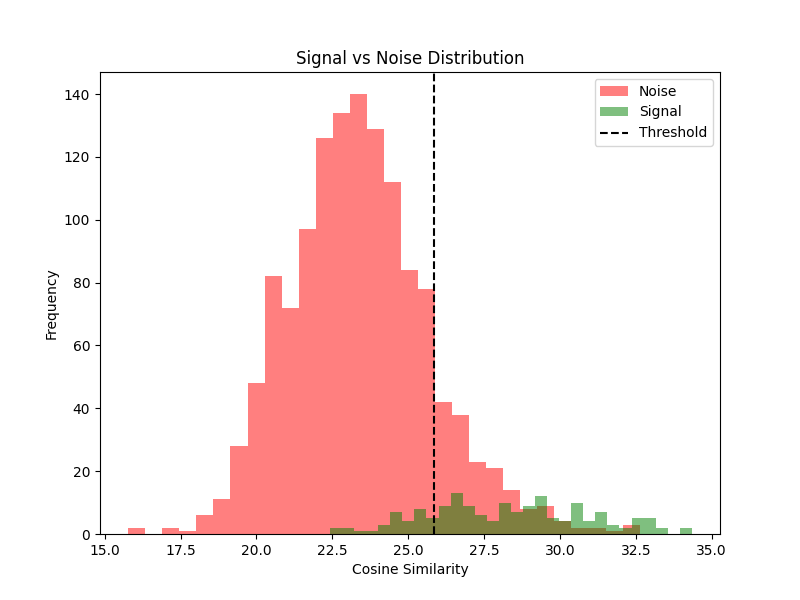
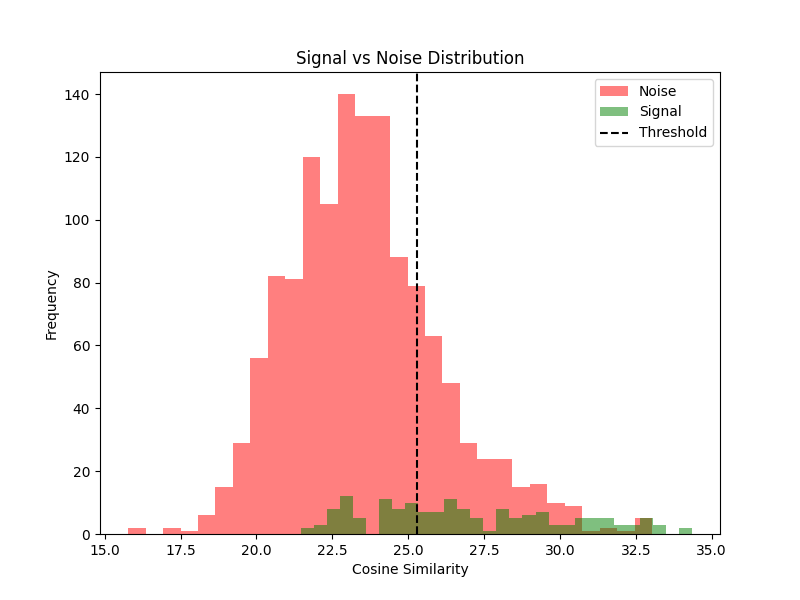
temp test

diff --git a/src/YOLO_utils.py b/src/YOLO_utils.py
@@ -234,15 +234,17 @@ def get_OneSignal_N_noiseSims_CLIP(bbox, pred_boxes, Clip_model, preprocess,
     sims = similarity_matrix[:, 0]   # only one text for target label here
 
     # !!if finding the most matched_box_idx then 
-    signal_sim = sims[matched_box_idx].item() if matched_box_idx != -1 else None
     # Q if there are 2 boxes both get high iou then ? -> use highest sim of matched as signal， 
     # pop these 2 boxes and the rests are noise. 
-    l_noise_sims = sims.cpu().tolist()
-
     if matched_box_idx != -1:
-        l_noise_sims.pop(matched_box_idx)  # remove signal similarity from noise list
+        signal_sim = sims[matched_box_idx].item()
+        l_noise_sims = sims.cpu().tolist()
+        l_noise_sims.pop(matched_box_idx)
     else:
-        print("Warning: No matched box found. All similarities will be treated as noise.")
+        signal_sim = 0.0      # Attention!: it can be not matched! if iou = 0 for all detected yolo patches
+        # I just temp. put 0.0 here (actually None)
+        l_noise_sims = sims.cpu().tolist()  # treat all as noise
+        print("Warning: No matched box found. All similarities are treated as noise.")
 
     return signal_sim, l_noise_sims
 
